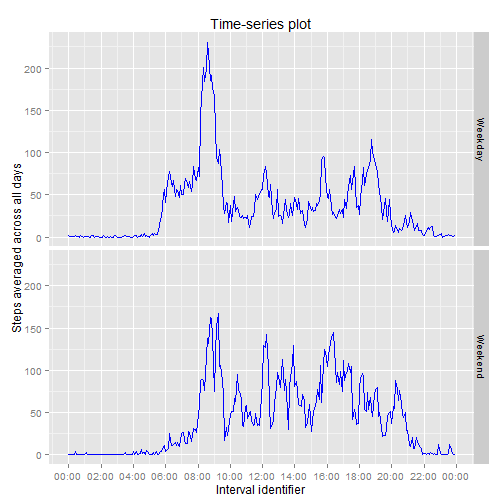
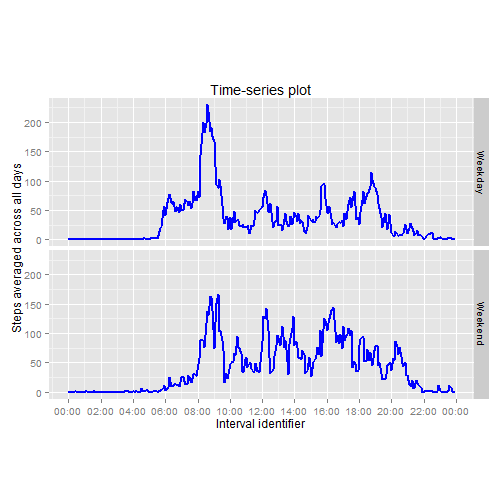
submission

diff --git a/PA1_template.html b/PA1_template.html
@@ -302,8 +302,10 @@ total_steps_df
 
 <p>The histogram of the total steps per day is plotted using <code>ggplot()</code> function as below.</p>
 
-<pre><code class="r">g &lt;- ggplot(data = total_steps, aes(total_steps$steps_tot))
-g + geom_histogram(col = &quot;white&quot;,fill = &quot;blue&quot;) + labs(title = &quot;Histogram for total steps per day&quot;) + labs(x = &quot;Total steps per day&quot;, y = &quot;Count of days&quot;)
+<pre><code class="r">g &lt;- ggplot(data = total_steps, aes(steps_tot))
+g + geom_histogram(col = &quot;white&quot;,fill = &quot;blue&quot;) + 
+    labs(title = &quot;Histogram for total steps per day&quot;) + 
+    labs(x = &quot;Total steps per day&quot;, y = &quot;Count of days&quot;)
 </code></pre>
 
[1 lines of base64/hex data omitted]
@@ -340,11 +342,15 @@ median_steps_date
 mean_steps_2 &lt;- summarise(by_interval, steps_mean_interval = mean(steps,na.rm = TRUE))
 mean_steps_interval &lt;- select(mean_steps_2, steps_mean_interval)
 
-h &lt;- ggplot(data = mean_steps_2, aes(x = mean_steps_2$interval_dummy, y = mean_steps_2$steps_mean_interval))
-h + geom_line(col = &quot;blue&quot;, size = 0.5) + labs(title = &quot;Time-series plot&quot;) + labs(x = &quot;Interval identifier&quot;, y = &quot;Steps averaged across all days&quot;) + scale_x_datetime(labels = date_format(&quot;%H:%M&quot;), breaks = date_breaks(&quot;2 hour&quot;))
+h &lt;- ggplot(data = mean_steps_2, aes(x = interval_dummy, y = steps_mean_interval))
+h + geom_line(col = &quot;blue&quot;, size = 0.75) + 
+    labs(title = &quot;Time-series plot&quot;) +
+    labs(x = &quot;Interval identifier&quot;, y = &quot;Steps averaged across all days&quot;) + 
+    scale_x_datetime(labels = date_format(&quot;%H:%M&quot;), breaks = date_breaks(&quot;2 hour&quot;)) + 
+    theme(aspect.ratio = 0.60)
 </code></pre>
 
[2 lines of base64/hex data omitted]
 
 <h3>Part 2: Finding the interval with the maximum mean steps</h3>
 
@@ -428,8 +434,10 @@ total_steps_df_na_filled
 
 <h4>Plotting histogram of total steps per day for imputed data</h4>
 
-<pre><code class="r">i &lt;- ggplot(data = total_steps_na_filled, aes(total_steps_na_filled$steps_tot))
-i + geom_histogram(col = &quot;white&quot;,fill = &quot;blue&quot;) + labs(title = &quot;Histogram for total steps per day for new dataset&quot;) + labs(x = &quot;Total steps per day&quot;, y = &quot;Count of days&quot;)
+<pre><code class="r">i &lt;- ggplot(data = total_steps_na_filled, aes(steps_tot))
+i + geom_histogram(col = &quot;white&quot;,fill = &quot;blue&quot;) + 
+    labs(title = &quot;Histogram for total steps per day for new dataset&quot;) + 
+    labs(x = &quot;Total steps per day&quot;, y = &quot;Count of days&quot;)
 </code></pre>
 
[1 lines of base64/hex data omitted]
@@ -491,10 +499,15 @@ weekpos_df &lt;- select(weekpos_df, -day)
 total_steps_weekpos &lt;- summarise(by_interval_weekpos, steps_day_weekpos = mean(steps))
 
 j &lt;- ggplot(data = total_steps_weekpos, aes(x = interval_dummy, y = steps_day_weekpos))
-j + geom_line(color = &quot;blue&quot;, size = 0.5) + facet_grid(week_day_position~.) + scale_x_datetime(labels = date_format(&quot;%H:%M&quot;), breaks = date_breaks(&quot;2 hour&quot;)) + labs(title = &quot;Time-series plot&quot;) + labs(x = &quot;Interval identifier&quot;, y = &quot;Steps averaged across all days&quot;)
+j + geom_line(color = &quot;blue&quot;, size = 0.75) + 
+    facet_grid(week_day_position ~.) + 
+    scale_x_datetime(labels = date_format(&quot;%H:%M&quot;), breaks = date_breaks(&quot;2 hour&quot;)) + 
+    labs(title = &quot;Time-series plot&quot;) + 
+    labs(x = &quot;Interval identifier&quot;, y = &quot;Steps averaged across all days&quot;) +
+    theme(aspect.ratio = 0.35)
 </code></pre>
 
[2 lines of base64/hex data omitted]
 
 <h4>Differences between activity pattern for weekdays and weekends</h4>
 

diff --git a/PA1_template.md b/PA1_template.md
@@ -1,9 +1,3 @@
----
-title: "Reproducible Research: Peer Assessment 1"
-output: 
-  html_document:
-    keep_md: true
----
 
 # Reproducible Research: Peer Assessment 1
 
@@ -116,8 +110,10 @@ The histogram of the total steps per day is plotted using `ggplot()` function as
 
 
 ```r
-g <- ggplot(data = total_steps, aes(total_steps$steps_tot))
-g + geom_histogram(col = "white",fill = "blue") + labs(title = "Histogram for total steps per day") + labs(x = "Total steps per day", y = "Count of days")
+g <- ggplot(data = total_steps, aes(steps_tot))
+g + geom_histogram(col = "white",fill = "blue") + 
+    labs(title = "Histogram for total steps per day") + 
+    labs(x = "Total steps per day", y = "Count of days")
 ```
 
 ![plot of chunk unnamed-chunk-5](figure/unnamed-chunk-5-1.png) 
@@ -161,8 +157,12 @@ by_interval <- group_by(activitydata_tbldf_dummy,interval_dummy)
 mean_steps_2 <- summarise(by_interval, steps_mean_interval = mean(steps,na.rm = TRUE))
 mean_steps_interval <- select(mean_steps_2, steps_mean_interval)
 
-h <- ggplot(data = mean_steps_2, aes(x = mean_steps_2$interval_dummy, y = mean_steps_2$steps_mean_interval))
-h + geom_line(col = "blue", size = 0.5) + labs(title = "Time-series plot") + labs(x = "Interval identifier", y = "Steps averaged across all days") + scale_x_datetime(labels = date_format("%H:%M"), breaks = date_breaks("2 hour"))
+h <- ggplot(data = mean_steps_2, aes(x = interval_dummy, y = steps_mean_interval))
+h + geom_line(col = "blue", size = 0.75) + 
+    labs(title = "Time-series plot") +
+    labs(x = "Interval identifier", y = "Steps averaged across all days") + 
+    scale_x_datetime(labels = date_format("%H:%M"), breaks = date_breaks("2 hour")) + 
+    theme(aspect.ratio = 0.60)
 ```
 
 ![plot of chunk unnamed-chunk-7](figure/unnamed-chunk-7-1.png) 
@@ -265,8 +265,10 @@ total_steps_na_filled <- select(total_steps_df_na_filled,steps_tot)
 
 
 ```r
-i <- ggplot(data = total_steps_na_filled, aes(total_steps_na_filled$steps_tot))
-i + geom_histogram(col = "white",fill = "blue") + labs(title = "Histogram for total steps per day for new dataset") + labs(x = "Total steps per day", y = "Count of days")
+i <- ggplot(data = total_steps_na_filled, aes(steps_tot))
+i + geom_histogram(col = "white",fill = "blue") + 
+    labs(title = "Histogram for total steps per day for new dataset") + 
+    labs(x = "Total steps per day", y = "Count of days")
 ```
 
 ![plot of chunk unnamed-chunk-13](figure/unnamed-chunk-13-1.png) 
@@ -337,7 +339,12 @@ by_interval_weekpos <- group_by(weekpos_df, week_day_position, interval_dummy)
 total_steps_weekpos <- summarise(by_interval_weekpos, steps_day_weekpos = mean(steps))
 
 j <- ggplot(data = total_steps_weekpos, aes(x = interval_dummy, y = steps_day_weekpos))
-j + geom_line(color = "blue", size = 0.5) + facet_grid(week_day_position~.) + scale_x_datetime(labels = date_format("%H:%M"), breaks = date_breaks("2 hour")) + labs(title = "Time-series plot") + labs(x = "Interval identifier", y = "Steps averaged across all days")
+j + geom_line(color = "blue", size = 0.75) + 
+    facet_grid(week_day_position ~.) + 
+    scale_x_datetime(labels = date_format("%H:%M"), breaks = date_breaks("2 hour")) + 
+    labs(title = "Time-series plot") + 
+    labs(x = "Interval identifier", y = "Steps averaged across all days") +
+    theme(aspect.ratio = 0.35)
 ```
 
 ![plot of chunk unnamed-chunk-16](figure/unnamed-chunk-16-1.png) 
